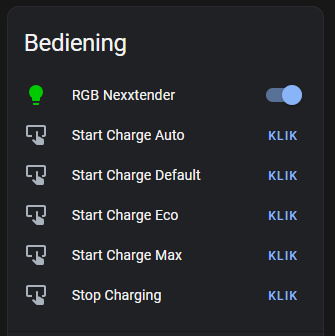
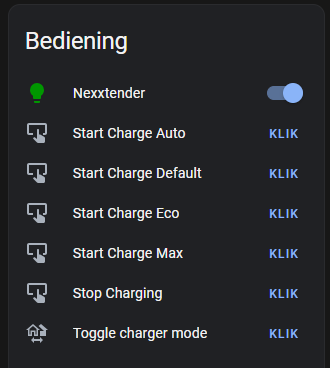
feat: switch charger mode

diff --git a/README.md b/README.md
@@ -21,6 +21,8 @@ This repository contains an ESPHome BLE client for interfacing with the Powerdal
 
 - **Remote Control:** Control the Nexxtender charger remotely from your ESPHome device, enabling features such as starting, stopping, change charge mode, set the charger to Open/Private, set the maximum car charging speed and scheduling charging sessions.
 
+- **Toggle open/private mode:** Toggle the open/private mode of the charger by pressing the "boot" button on the ESP board.
+
 - **Home Assistant Integration:** Seamlessly integrate the ESPHome BLE client with Home Assistant, allowing you to monitor and control the Nexxtender charger through the Home Assistant interface.
 
 ## Screenshots
